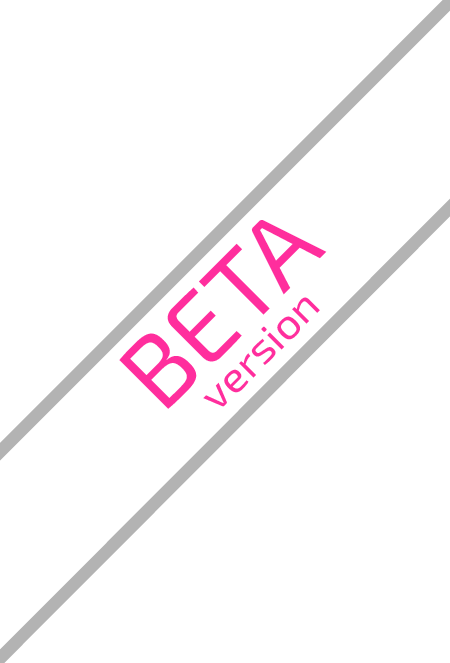
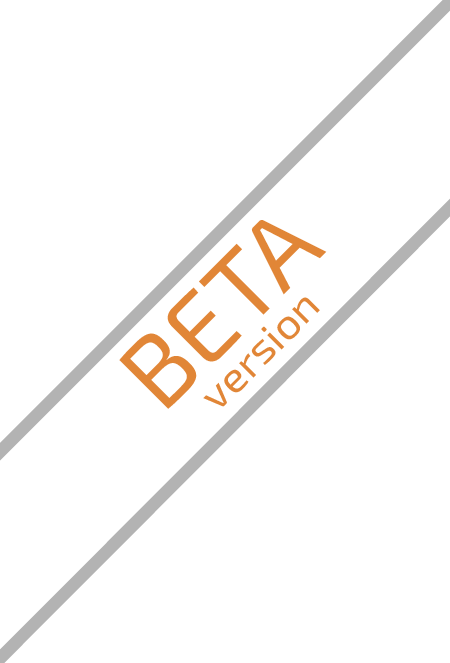
added stopwordlist and updated design

Changed region(s): [[0.28, 0.362, 0.5911, 0.6335], [0.56, 0.3318, 0.7156, 0.543]]

diff --git a/css/admin.css b/css/admin.css
@@ -64,7 +64,7 @@ body #save_changes {
 }
 
 body #save_changes:hover {
-	background-color:rgb(255,46,157);
+	background-color:rgb(239,127,26);
 	cursor:pointer;
 }
 
@@ -126,7 +126,7 @@ body .listbox h2 .add:hover {
 }
 
 body h2 .heading_prefix {
-	color:rgb(255,46,157);
+	color:rgb(239,127,26);
 }
 
 body .listbox ul {
@@ -177,7 +177,7 @@ body .listbox ul .selected {
 }
 
 body .listbox ul li:hover {
-	background-color:rgb(255,46,157);
+	background-color:rgb(239,127,26);
 	color:rgb(250,250,250);
 	cursor:pointer;
 }
@@ -205,7 +205,7 @@ body #editor input.single_line {
 body #editor .input_label {
 	display:block;
 	margin-bottom:15px;
-	color:rgb(255,46,157);
+	color:rgb(239,127,26);
 	font-size:0.9em;
 }
 
@@ -281,7 +281,7 @@ body #new_entry .button {
 	border-width:2px;
 	border-color:rgb(30,30,30);
 	
-	background-color:rgb(255,46,157);
+	background-color:rgb(239,127,26);
 	font-family: 'Exo-400', sans-serif;
 }
 
@@ -331,7 +331,7 @@ body #upload .button {
 	border-width:2px;
 	border-color:rgb(30,30,30);
 	
-	background-color:rgb(255,46,157);
+	background-color:rgb(239,127,26);
 	font-family: 'Exo-400', sans-serif;
 }
 

diff --git a/css/web.css b/css/web.css
@@ -69,14 +69,14 @@ body h1 {
 
 	background-color:rgb(30,30,30);
 
-	color:rgb(255,46,157);
+	color:rgb(239,127,26);
 	
 	
 	font-size:1.8em;
 }
 
 body h1 .highlight {
-	color:rgb(255,46,157);
+	color:rgb(239,127,26);
 }
 
 body h1 .sub {
@@ -122,12 +122,12 @@ body #output .line {
 }
 
 body #output .line a{
-	color:rgb(255,46,157);
+	color:rgb(239,127,26);
 }
 
 body #output .me {
 	font-style:bold;
-	color:rgb(255,46,157);
+	color:rgb(239,127,26);
 }
 
 body #output .elise {
@@ -141,7 +141,7 @@ body #output .course {
 
 body #output .course:hover {
 	cursor:pointer;
-	color:rgb(255,46,157);
+	color:rgb(239,127,26);
 }
 
 body input {
@@ -186,7 +186,7 @@ body #course_info h1 {
 }
 
 body #course_info .course_nr {
-	color:rgb(255,46,157);
+	color:rgb(239,127,26);
 	font-style:bold;
 }
 
@@ -207,5 +207,5 @@ body footer {
 }
 
 body footer a {
-	color:rgb(255,46,157);
+	color:rgb(239,127,26);
 }

diff --git a/python/ask.py b/python/ask.py
@@ -17,6 +17,7 @@ dict_folder = ""
 spellchecker_file = ""
 replacement_dict = {}
 aimlizer = ""
+stopwords = ""
 
 @contextlib.contextmanager
 def nostdout():
@@ -26,8 +27,8 @@ def nostdout():
  	sys.stdout = save_stdout
 
 def getRequest():
-	global aiml_request, aiml_file, aiml_session, dict_folder, spellchecker_file
-	myopts, args = getopt.getopt(sys.argv[1:],"q:a:s:d:c:")
+	global aiml_request, aiml_file, aiml_session, dict_folder, spellchecker_file,stopwords
+	myopts, args = getopt.getopt(sys.argv[1:],"q:a:s:d:c:l:")
 	for o, a in myopts:
 		if o == '-q':
 			aiml_request = a
@@ -39,6 +40,8 @@ def getRequest():
 			dict_folder = a
 		elif o == '-c':
 			spellchecker_file = a
+		elif o == '-l':
+			stopwords = a
 		else:
 			print("Usage: %s -q QUERY -a AIML-FILE -s SESSION-ID -d DICTONARY-FOLDER -c WORD-LIST FOR SPELLCHECKER" % sys.argv[0])
 
@@ -52,6 +55,7 @@ def setupAiml():
 def setupAimlizer():
 	global aimlizer
 	aimlizer = Aimlizer()
+	aimlizer.addModule(StopwordReductionModule(stopwords))
 	aimlizer.addModule(NormalizerModule())
 	#aimlizer.addModule(SpellCheckerModule(spellchecker_file))
 	aimlizer.addModule(ReplacerModule(dict_folder))

diff --git a/python/aimlizer.py b/python/aimlizer.py
@@ -26,6 +26,22 @@ class NormalizerModule(AimlizerModule):
 		str = re.sub(' +',' ',str)
 		return str
 
+class StopwordReductionModule(AimlizerModule):
+	list = []
+	
+	def __init__(self, stopwordlist):
+		global list
+		with open(stopwordlist, 'r') as f:
+			list = f.readlines()
+
+	def process(self, str):
+		out = ""
+		for(word) in str.split(" "):
+			if(word not in list):
+				out += word+" "
+		out = out[:-1]
+		return out
+
 class SpellCheckerModule(AimlizerModule):
 	sp = None
 
@@ -37,7 +53,7 @@ class SpellCheckerModule(AimlizerModule):
 		out = ""
 		for(word) in str.split(" "):
 			correction = self.sp.correct(word)
-			out += correction+" ";
+			out += correction+" "
 		out = out[:-1]
 		return out
 
@@ -63,6 +79,7 @@ class ReplacerModule(AimlizerModule):
 					values = parts[1].split(",")
 					for(value) in values:
 						self.replacement_dict[value.rstrip('\n').upper()] = key.upper()
+		print(self.replacement_dict);
 		
 	def process(self, str):
 		return self.replaceTokens(str)

diff --git a/php/aiml.php b/php/aiml.php
@@ -8,7 +8,7 @@
 	function ask_aiml($request, $aiml_file)
 	{
 		logDialog(time(), session_id(), "human", $request);
-		$result = shell_exec('../python/ask.py -q "'.$request.'" -a "../python/aiml/'.$aiml_file.'" -s '.session_id().' -d "../python/dict/" -c "../python/lists/top10k_de.list" 2>&1');
+		$result = shell_exec('../python/ask.py -q "'.$request.'" -a "../python/aiml/'.$aiml_file.'" -s '.session_id().' -d "../python/dict/" -c "../python/lists/top10k_de.list" -l "../python/stopwords/german.stop" 2>&1');
 		$pos = strpos($result, 'WARNING');
 		if($pos === false) {
 			logDialog(time(), session_id(), "bot", $result);
